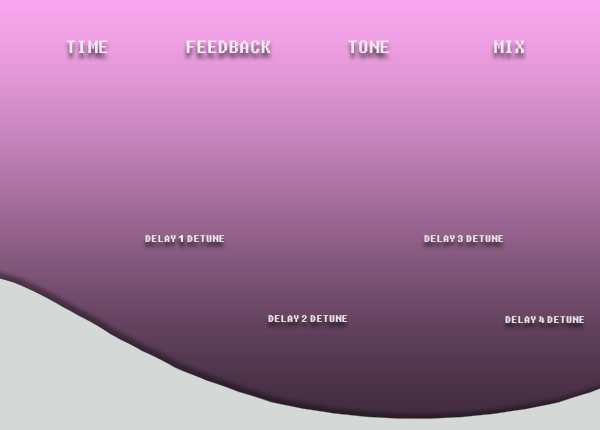
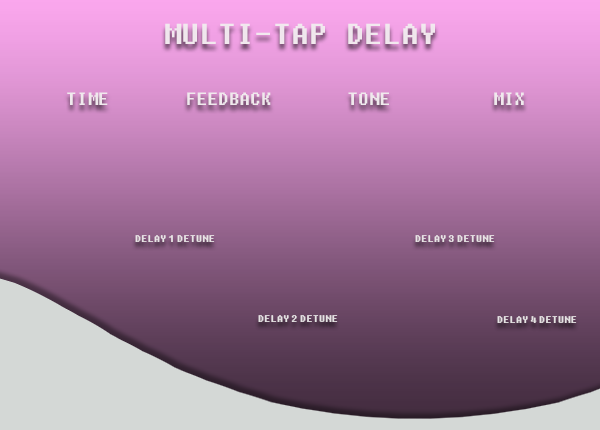
Added plugin name to the gui

diff --git a/Source/PluginEditor.cpp b/Source/PluginEditor.cpp
@@ -16,6 +16,7 @@ Multitap_delayAudioProcessorEditor::Multitap_delayAudioProcessorEditor (Multitap
    
     setSize (600, 430);
 
+
         
     timeSlider.reset(new juce::Slider("new slider"));
     addAndMakeVisible(timeSlider.get());
@@ -52,6 +53,7 @@ Multitap_delayAudioProcessorEditor::Multitap_delayAudioProcessorEditor (Multitap
     detune1Slider->addListener(this);
     detune1Slider->setLookAndFeel(&graphics);
     detune1Slider->setDoubleClickReturnValue(true, 8);
+   
     
 
     
@@ -118,14 +120,19 @@ Multitap_delayAudioProcessorEditor::Multitap_delayAudioProcessorEditor (Multitap
     mixSlider->setDoubleClickReturnValue(true, 25);
    
 
-    timeSlider->setBounds(30, 65, 120, 120);
-    feedbackSlider->setBounds(170, 65, 120, 120);
-    toneSlider->setBounds(310, 65, 120, 120);
-    mixSlider->setBounds(450, 65, 120, 120);
-    detune1Slider->setBounds(73, 190, 150, 145);
-    detune2Slider->setBounds(197, 270, 150, 145);
-    detune3Slider->setBounds(353, 190, 150, 145);
-    detune4Slider->setBounds(435, 270, 150, 145);
+    int knobSize = 90;
+    int xOffset = 15;
+    int yOffset = 115;
+    int detuneKnobSize = 140;
+    
+    timeSlider->setBounds(30 + xOffset - 3, yOffset, knobSize, knobSize);
+    feedbackSlider->setBounds(170 + xOffset, yOffset, knobSize, knobSize);
+    toneSlider->setBounds(310 + xOffset, yOffset, knobSize, knobSize);
+    mixSlider->setBounds(450 + xOffset, yOffset, knobSize, knobSize);
+    detune1Slider->setBounds(73, 190, detuneKnobSize, 145);
+    detune2Slider->setBounds(197, 270, detuneKnobSize, 145);
+    detune3Slider->setBounds(353, 190, detuneKnobSize, 145);
+    detune4Slider->setBounds(435, 270, detuneKnobSize, 145);
 }
 
 Multitap_delayAudioProcessorEditor::~Multitap_delayAudioProcessorEditor()

diff --git a/README.md b/README.md
@@ -3,7 +3,7 @@
 This repository contains the code for a digital delay VST plugin. This multi-tap delay utilizes four delay lines to create a rhythmic pattern with the repeats.
 
 <p align="center">
-  <img width="600" height="430" src="https://user-images.githubusercontent.com/58518865/121102697-f1fa3e00-c806-11eb-8404-15501d55cf0e.png">
+  <img width="600" height="430" src="https://user-images.githubusercontent.com/58518865/132894820-c299b892-eff6-44fa-bf65-0d0192b3a091.png">
 </p>
 
 ### Controls
